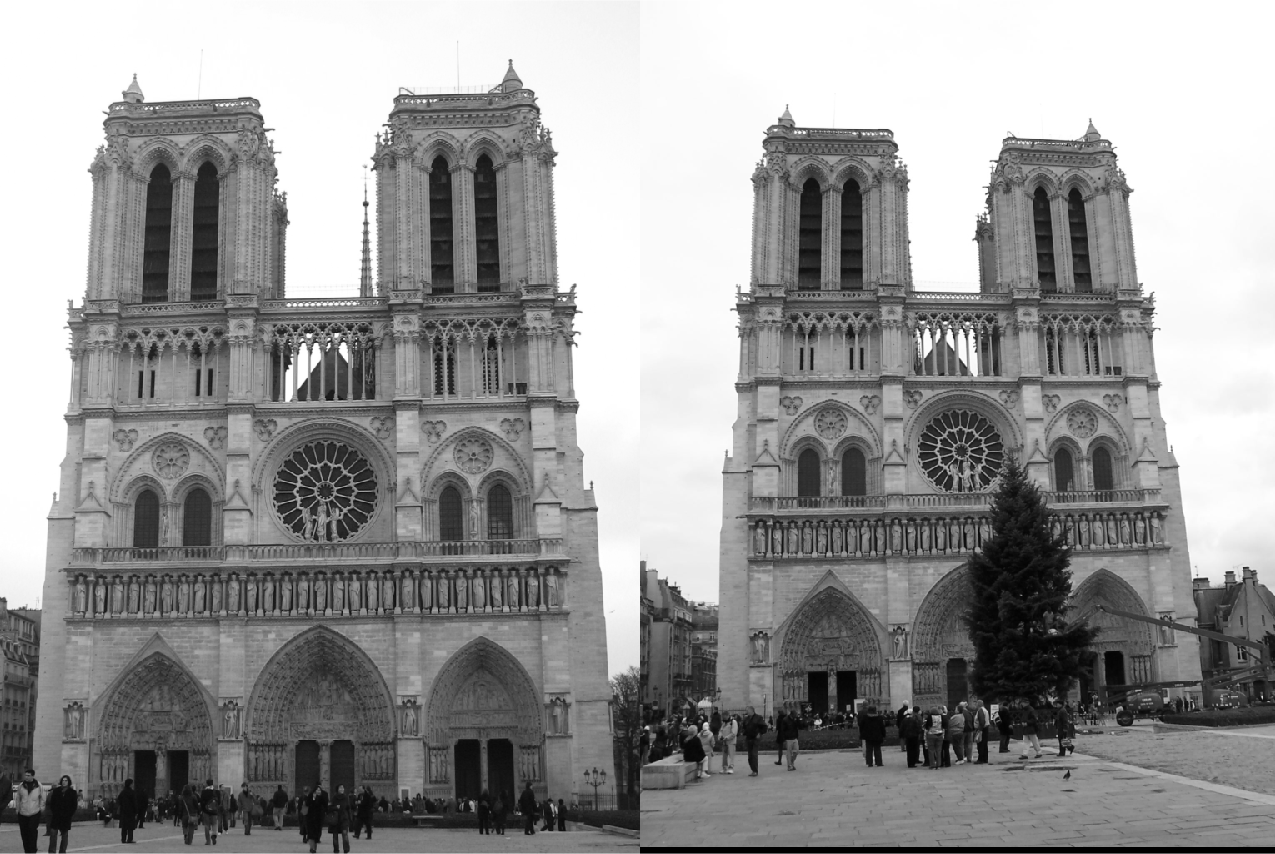
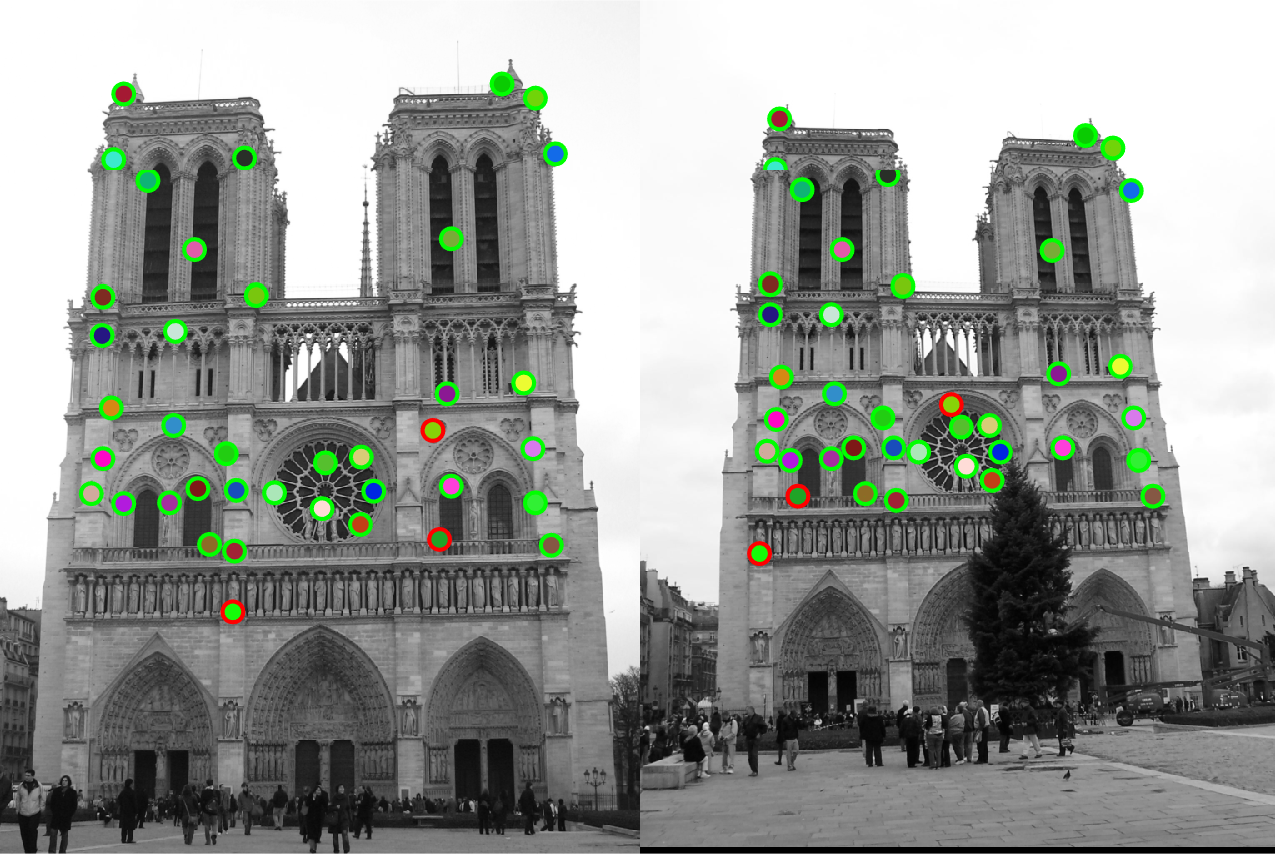
get_descriptors.m basic SIFT

diff --git a/hw4/code/match_features.m b/hw4/code/match_features.m
@@ -23,16 +23,17 @@
 
 function [matches, confidences] = match_features(features1, features2)
 
-% % Placeholder random matches and confidences.
+% Placeholder random matches and confidences.
 % num_features = min(size(features1, 1), size(features2,1));
 % matches = zeros(num_features, 2);
 % matches(:,1) = randperm(num_features); 
 % matches(:,2) = randperm(num_features);
+% confidences = rand(num_features,1);
 
 [N K] = size(features1);
 matches = zeros(N, 2);
 confidences = zeros(N, 1);
-threshold = 0.75;
+threshold = 0.9;
 
 neighbors = zeros(N, N);
 for i = 1:N
@@ -46,15 +47,19 @@ end
 % neighbors sorted based on features2 points
 % e.g. col1 = neighbors of 1st features2, col2 = neighbors of 2nd features2
 [neighbors, index] = sort(neighbors);
+ratios = zeros(1,N);
 for i = 1:N
     ratio = neighbors(1,i)/neighbors(2,i);
+    ratios(1,i) = ratio;
     if (ratio < threshold)
         matches(i,2) = i;
         matches(i,1) = index(1,i);
         confidences(i) = 1 - ratio;
     end
 end
+% a = matches;
 matches( ~any(matches,2), : ) = [];
+% b = matches;
 confidences( ~any(confidences,2), : ) = [];
 
 [confidences, sort_index] = sort(confidences, 'descend');

diff --git a/hw4/code/get_interest_points.m b/hw4/code/get_interest_points.m
@@ -37,8 +37,8 @@ function [x, y, confidence, scale, orientation] = get_interest_points(image, des
 % of cornerness.
 
 % Placeholder that you can delete -- random points
-x = ceil(rand(500,1) * size(image,2));
-y = ceil(rand(500,1) * size(image,1));
+% x = ceil(rand(500,1) * size(image,2));
+% y = ceil(rand(500,1) * size(image,1));
 
 
 % After computing interest points, here's roughly how many we return
@@ -46,6 +46,17 @@ y = ceil(rand(500,1) * size(image,1));
 % - Notre Dame: ~1300 and ~1700
 % - Mount Rushmore: ~3500 and ~4500
 % - Episcopal Gaudi: ~1000 and ~9000
+
+filter_x = [1 0 -1; 2 0 -2; 1 0 -1];
+filter_y = [1 2 1; 0 0 0; -1 -2 -1];
+Ix = imfilter(image, filter_x);
+Iy = imfilter(image, filter_y);
+Ixx = imfilter(Ix, filter_x);
+Iyy = imfilter(Iy, filter_y);
+Ixy = imfilter(Ix, filter_y);
+
+G = fspecial('gaussian', 
+
 
 end
 
